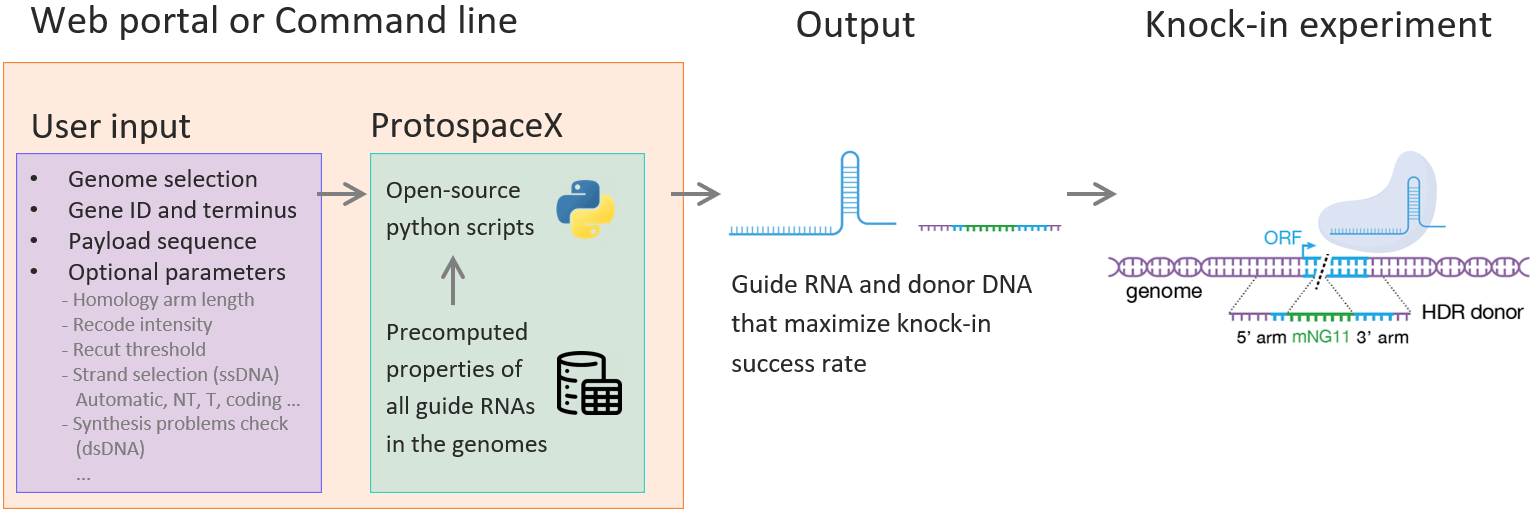
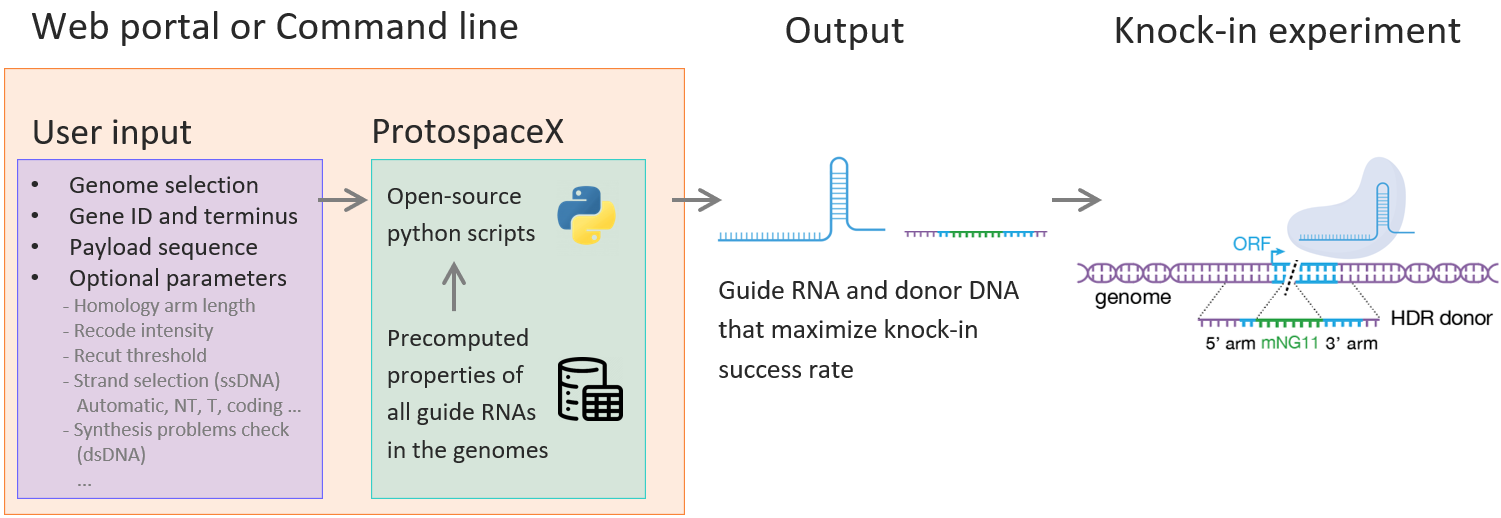
center pic

diff --git a/docs/source/index.rst b/docs/source/index.rst
@@ -7,8 +7,8 @@ Workflow overview
 -----------------
 
 .. figure:: /_static/images/workflow.png
-   :width: 100%
-   :align: left
+   :width: 110%
+   :align: center
    :alt: workflow 
 
 Check out the :doc:`usage` section for more information.  
